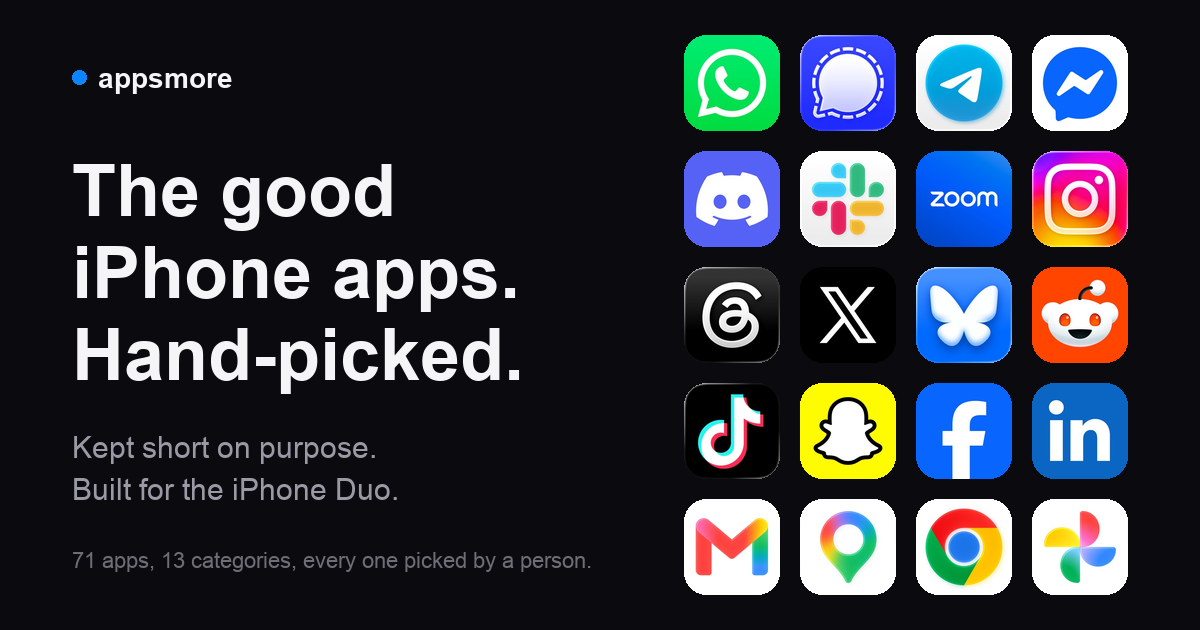
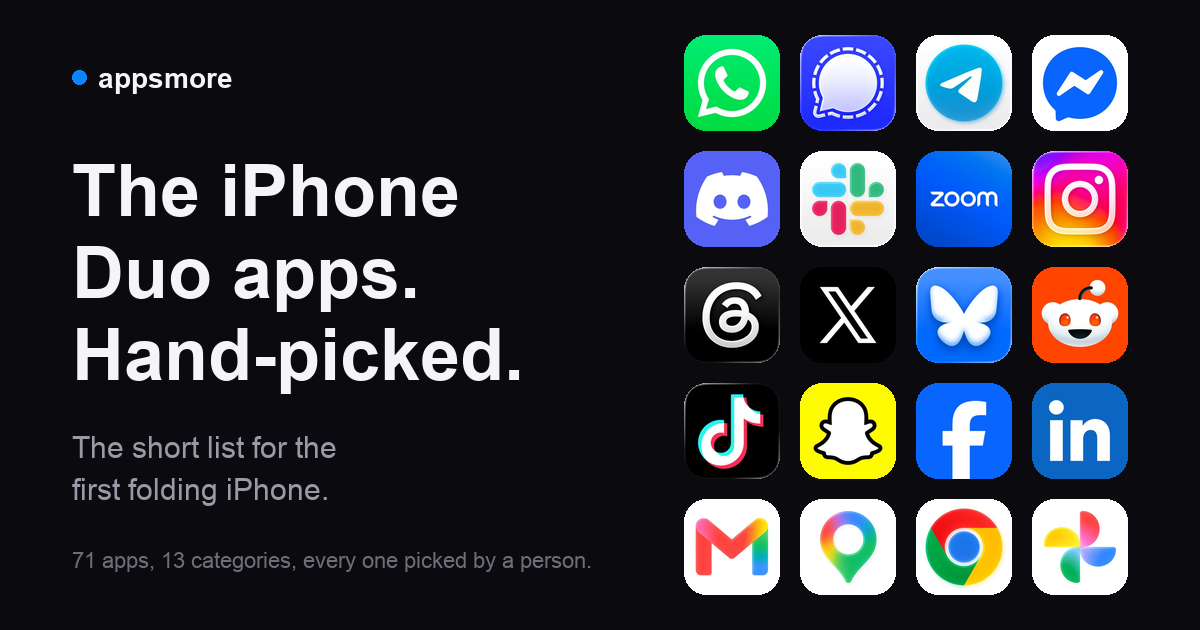
Duo-first: headline, lede, live Duo line (launch countdown then tested count), first pack 'Duo, day one', title/meta/OG/og.png; ?v=20

diff --git a/index.html b/index.html
@@ -3,28 +3,28 @@
 <head>
 <meta charset="utf-8">
 <meta name="viewport" content="width=device-width, initial-scale=1, viewport-fit=cover">
-<title>appsmore: hand-picked iPhone apps, built for the iPhone Duo</title>
-<meta name="description" content="The best iPhone apps, hand-picked and kept short: 67 apps in 13 categories, laid out for the iPhone Duo. Tap what you want, install in setup order, or send the list to a new iPhone as one link.">
+<title>appsmore: the iPhone Duo apps, hand-picked</title>
+<meta name="description" content="The apps worth putting on an iPhone Duo, hand-picked and kept short: 67 apps in 13 categories, laid out for both of the Duo's screens. Tap what you want, install in setup order, or send the list to the phone as one short link.">
 <link rel="canonical" href="https://appsmore.com/">
-<meta property="og:title" content="appsmore: hand-picked iPhone apps, built for the iPhone Duo">
-<meta property="og:description" content="A short, hand-picked list of iPhone apps worth installing. Tick what you want, install from the list, or send it to a phone as one link.">
+<meta property="og:title" content="appsmore: the iPhone Duo apps, hand-picked">
+<meta property="og:description" content="The short list for the first folding iPhone. Tap what you want, install in setup order, or send it to the Duo as one short link.">
 <meta property="og:url" content="https://appsmore.com/">
 <meta property="og:type" content="website">
 <meta property="og:image" content="https://appsmore.com/og.png">
 <meta property="og:image:width" content="1200">
 <meta property="og:image:height" content="630">
 <meta name="twitter:card" content="summary_large_image">
-<meta name="twitter:title" content="appsmore: hand-picked iPhone apps, built for the iPhone Duo">
+<meta name="twitter:title" content="appsmore: the iPhone Duo apps, hand-picked">
 <meta name="twitter:image" content="https://appsmore.com/og.png">
 <meta name="theme-color" content="#0b0b0f">
-<link rel="stylesheet" href="style.css?v=19">
+<link rel="stylesheet" href="style.css?v=20">
 <link rel="icon" href="/favicon.ico" sizes="48x48">
 <link rel="icon" href="/favicon.svg" type="image/svg+xml">
 <link rel="icon" href="/favicon-32.png" type="image/png" sizes="32x32">
 <link rel="apple-touch-icon" href="/apple-touch-icon.png">
 <link rel="manifest" href="/manifest.json">
 <script type="application/ld+json">
-{"@context":"https://schema.org","@type":"WebSite","name":"appsmore","url":"https://appsmore.com/","description":"A short, hand-picked list of iPhone apps worth installing, laid out for the iPhone Duo."}
+{"@context":"https://schema.org","@type":"WebSite","name":"appsmore","url":"https://appsmore.com/","description":"The apps worth putting on an iPhone Duo, hand-picked and kept short."}
 </script>
 <!-- ld:start -->
 <script type="application/ld+json">{"@context":"https://schema.org","@type":"ItemList","name":"appsmore: hand-picked iPhone apps","url":"https://appsmore.com/","numberOfItems":67,"itemListOrder":"https://schema.org/ItemListOrderAscending","itemListElement":[{"@type":"ListItem","position":1,"item":{"@type":"SoftwareApplication","name":"WhatsApp","url":"https://apps.apple.com/app/id310633997","operatingSystem":"iOS","applicationCategory":"Messaging","author":{"@type":"Organization","name":"WhatsApp Inc."},"image":"https://is1-ssl.mzstatic.com/image/thumb/Purple221/v4/bd/ce/d2/bdced210-6893-203a-2dc0-6858122e82a8/AppIcon-0-0-1x_U007epad-0-0-0-1-0-0-sRGB-0-85-220.png/256x256bb.jpg","description":"Where most of the world already is. If your family is on it, you are on it."}},{"@type":"ListItem","position":2,"item":{"@type":"SoftwareApplication","name":"Signal","url":"https://apps.apple.com/app/id874139669","operatingSystem":"iOS","applicationCategory":"Messaging","author":{"@type":"Organization","name":"Signal Messenger, LLC"},"image":"https://is1-ssl.mzstatic.com/image/thumb/Purple221/v4/10/a6/ab/10a6ab27-4ed5-d171-c219-30bb7aad2d54/AppIcon-0-0-1x_U007epad-0-0-0-1-0-0-sRGB-0-85-220.png/256x256bb.jpg","description":"The one to tell anyone to use. Private by default, run by a nonprofit."}},{"@type":"ListItem","position":3,"item":{"@type":"SoftwareApplication","name":"Telegram","url":"https://apps.apple.com/app/id686449807","operatingSystem":"iOS","applicationCategory":"Messaging","author":{"@type":"Organization","name":"Telegram FZ-LLC"},"image":"https://is1-ssl.mzstatic.com/image/thumb/Purple211/v4/01/b6/99/01b699a0-d264-d1c3-c798-50aedd0be3db/Telegram-0-0-1x_U007epad-0-1-0-sRGB-85-220.png/256x256bb.jpg","description":"Big groups, channels and bots. Not end-to-end encrypted by default, so treat it as public."}},{"@type":"ListItem","position":4,"item":{"@type":"SoftwareApplication","name":"Messenger","url":"https://apps.apple.com/app/id454638411","operatingSystem":"iOS","applicationCategory":"Messaging","author":{"@type":"Organization","name":"Meta Platforms, Inc."},"image":"https://is1-ssl.mzstatic.com/image/thumb/Purple211/v4/b4/fb/bf/b4fbbfa1-c997-b03b-2589-61f84f3ff6fc/AppIcon-0-0-1x_U007epad-0-1-0-sRGB-85-220.png/256x256bb.jpg","description":"Only because your Facebook friends message you here. Skip it if they don't."}},{"@type":"ListItem","position":5,"item":{"@type":"SoftwareApplication","name":"Discord","url":"https://apps.apple.com/app/id985746746","operatingSystem":"iOS","applicationCategory":"Messaging","author":{"@type":"Organization","name":"Discord Inc."},"image":"https://is1-ssl.mzstatic.com/image/thumb/Purple221/v4/3b/49/1d/3b491ddd-2b41-fd44-042f-f01b2899ecd2/AppIcon-0-0-1x_U007epad-0-1-0-85-220.png/256x256bb.jpg","description":"Where communities live now, from game servers to open source projects."}},{"@type":"ListItem","position":6,"item":{"@type":"SoftwareApplication","name":"Slack","url":"https://apps.apple.com/app/id618783545","operatingSystem":"iOS","applicationCategory":"Messaging","author":{"@type":"Organization","name":"SLACK TECHNOLOGIES L.L.C."},"image":"https://is1-ssl.mzstatic.com/image/thumb/Purple211/v4/fc/b4/7a/fcb47af8-bfc3-807c-3ad1-552f4e59e9df/slack_icon_prod-0-0-1x_U007epad-0-1-sRGB-85-220.png/256x256bb.jpg","description":"Work chat. You don't pick it, your job does."}},{"@type":"ListItem","position":7,"item":{"@type":"SoftwareApplication","name":"Zoom","url":"https://apps.apple.com/app/id546505307","operatingSystem":"iOS","applicationCategory":"Messaging","author":{"@type":"Organization","name":"Zoom Communications, Inc."},"image":"https://is1-ssl.mzstatic.com/image/thumb/Purple221/v4/37/4f/35/374f35c0-dace-8544-9ceb-1ff1adeb5c11/AppIcon-0-0-1x_U007epad-0-1-0-0-85-220.png/256x256bb.jpg","description":"The video call that always works, even on bad Wi-Fi."}},{"@type":"ListItem","position":8,"item":{"@type":"SoftwareApplication","name":"Instagram","url":"https://apps.apple.com/app/id389801252","operatingSystem":"iOS","applicationCategory":"Social","author":{"@type":"Organization","name":"Instagram, Inc."},"image":"https://is1-ssl.mzstatic.com/image/thumb/Purple211/v4/5a/18/99/5a189914-fa88-fab3-7ce2-506a624d2fbf/Prod-0-0-1x_U007epad-0-1-0-sRGB-85-220.png/256x256bb.jpg","description":"Photos, Reels, DMs. The one social app most people would keep."}},{"@type":"ListItem","position":9,"item":{"@type":"SoftwareApplication","name":"Threads","url":"https://apps.apple.com/app/id6446901002","operatingSystem":"iOS","applicationCategory":"Social","author":{"@type":"Organization","name":"Instagram, Inc."},"image":"https://is1-ssl.mzstatic.com/image/thumb/Purple211/v4/b1/0b/e0/b10be06e-917c-5dbd-aab0-a03cc5d648ad/Prod-0-0-1x_U007ephone-0-0-0-1-0-0-P3-85-220.png/256x256bb.jpg","description":"Instagram's text feed. Same login, quieter than X."}},{"@type":"ListItem","position":10,"item":{"@type":"SoftwareApplication","name":"X","url":"https://apps.apple.com/app/id333903271","operatingSystem":"iOS","applicationCategory":"Social","author":{"@type":"Organization","name":"X Corp."},"image":"https://is1-ssl.mzstatic.com/image/thumb/Purple211/v4/e5/6f/e7/e56fe7f9-dcab-14c7-56ae-e625a4794d56/ProductionAppIcon-0-0-1x_U007emarketing-0-8-0-0-0-85-220.png/256x256bb.jpg","description":"Still where news breaks first. Loud; curate your follows hard."}},{"@type":"ListItem","position":11,"item":{"@type":"SoftwareApplication","name":"Bluesky","url":"https://apps.apple.com/app/id6444370199","operatingSystem":"iOS","applicationCategory":"Social","author":{"@type":"Organization","name":"Bluesky PBLLC"},"image":"https://is1-ssl.mzstatic.com/image/thumb/Purple211/v4/f7/eb/09/f7eb09b2-d16f-95bc-6aa0-143738d194af/ios_icon_default-0-0-1x_U007ephone-0-1-sRGB-85-220.png/256x256bb.jpg","description":"The calm, open alternative to X. Custom feeds are the point."}},{"@type":"ListItem","position":12,"item":{"@type":"SoftwareApplication","name":"Reddit","url":"https://apps.apple.com/app/id1064216828","operatingSystem":"iOS","applicationCategory":"Social","author":{"@type":"Organization","name":"REDDIT, INC."},"image":"https://is1-ssl.mzstatic.com/image/thumb/Purple221/v4/62/9d/85/629d852f-9f8f-d543-addd-b1a0a856286d/AppIcon-0-0-1x_U007epad-0-1-0-85-220.png/256x256bb.jpg","description":"The best search results on the internet are Reddit threads. The app is finally decent."}},{"@type":"ListItem","position":13,"item":{"@type":"SoftwareApplication","name":"TikTok","url":"https://apps.apple.com/app/id835599320","operatingSystem":"iOS","applicationCategory":"Social","author":{"@type":"Organization","name":"TIKTOK PTE. LTD."},"image":"https://is1-ssl.mzstatic.com/image/thumb/Purple211/v4/fe/27/16/fe27164a-3b4e-ab54-b5e0-4e8fa4e1556a/TikTok_AppIcon26-0-0-1x_U007epad-0-1-0-85-220.png/256x256bb.jpg","description":"The best recommendation engine on any phone. Set a timer."}},{"@type":"ListItem","position":14,"item":{"@type":"SoftwareApplication","name":"Snapchat","url":"https://apps.apple.com/app/id447188370","operatingSystem":"iOS","applicationCategory":"Social","author":{"@type":"Organization","name":"Snap, Inc."},"image":"https://is1-ssl.mzstatic.com/image/thumb/Purple221/v4/00/59/bb/0059bb41-25d1-e054-dd32-979ff089b7cb/AppIcon-0-0-1x_U007epad-0-1-0-85-220.png/256x256bb.jpg","description":"If your friends are under 25, this is where they are."}},{"@type":"ListItem","position":15,"item":{"@type":"SoftwareApplication","name":"Facebook","url":"https://apps.apple.com/app/id284882215","operatingSystem":"iOS","applicationCategory":"Social","author":{"@type":"Organization","name":"Meta Platforms, Inc."},"image":"https://is1-ssl.mzstatic.com/image/thumb/Purple221/v4/5e/1d/be/5e1dbe24-886f-0e03-0874-2b7c2fdfd594/Icon-Production-0-0-1x_U007epad-0-1-0-85-220.png/256x256bb.jpg","description":"For groups, Marketplace and relatives. Turn off every notification."}},{"@type":"ListItem","position":16,"item":{"@type":"SoftwareApplication","name":"LinkedIn","url":"https://apps.apple.com/app/id288429040","operatingSystem":"iOS","applicationCategory":"Social","author":{"@type":"Organization","name":"LinkedIn Corporation"},"image":"https://is1-ssl.mzstatic.com/image/thumb/Purple221/v4/3d/24/4b/3d244b4a-52ad-5f92-0f79-829c869b9dcc/AppIcon-0-0-1x_U007emarketing-0-8-0-85-220.png/256x256bb.jpg","description":"Job changes and recruiters. Check it weekly, not daily."}},{"@type":"ListItem","position":17,"item":{"@type":"SoftwareApplication","name":"Gmail","url":"https://apps.apple.com/app/id422689480","operatingSystem":"iOS","applicationCategory":"Google","author":{"@type":"Organization","name":"Google LLC"},"image":"https://is1-ssl.mzstatic.com/image/thumb/Purple221/v4/a0/f0/57/a0f057ec-e69b-27d7-3ada-ad34c50dbfb5/gmail_2026_ios-0-0-1x_U007epad-0-0-0-1-0-0-sRGB-0-0-85-220.png/256x256bb.jpg","description":"Better search and swipes than Apple Mail if your mail is Gmail."}},{"@type":"ListItem","position":18,"item":{"@type":"SoftwareApplication","name":"Google Maps","url":"https://apps.apple.com/app/id585027354","operatingSystem":"iOS","applicationCategory":"Google","author":{"@type":"Organization","name":"Google LLC"},"image":"https://is1-ssl.mzstatic.com/image/thumb/Purple211/v4/d1/1e/12/d11e1245-3286-ffa3-da4e-f0d102520f41/maps_2025-0-0-1x_U007epad-0-0-0-1-0-0-sRGB-0-0-85-220.png/256x256bb.jpg","description":"Still the best map data, transit and reviews. Apple Maps is close now."}},{"@type":"ListItem","position":19,"item":{"@type":"SoftwareApplication","name":"Chrome","url":"https://apps.apple.com/app/id535886823","operatingSystem":"iOS","applicationCategory":"Google","author":{"@type":"Organization","name":"Google LLC"},"image":"https://is1-ssl.mzstatic.com/image/thumb/Purple211/v4/40/07/e1/4007e100-feee-a7d5-c4f8-2d5a0395530b/AppIcon-0-0-1x_U007epad-0-0-0-1-0-0-sRGB-85-220.png/256x256bb.jpg","description":"Only if your passwords and tabs already live in Chrome on the desktop."}},{"@type":"ListItem","position":20,"item":{"@type":"SoftwareApplication","name":"Google Photos","url":"https://apps.apple.com/app/id962194608","operatingSystem":"iOS","applicationCategory":"Google","author":{"@type":"Organization","name":"Google LLC"},"image":"https://is1-ssl.mzstatic.com/image/thumb/Purple211/v4/51/14/38/51143806-7e44-3988-777b-1b795ce39ba5/Photos-0-0-1x_U007epad-0-0-0-1-0-0-sRGB-0-0-85-220.png/256x256bb.jpg","description":"The best photo search there is, and a second backup next to iCloud."}},{"@type":"ListItem","position":21,"item":{"@type":"SoftwareApplication","name":"Google Drive","url":"https://apps.apple.com/app/id507874739","operatingSystem":"iOS","applicationCategory":"Google","author":{"@type":"Organization","name":"Google LLC"},"image":"https://is1-ssl.mzstatic.com/image/thumb/Purple211/v4/77/af/b3/77afb3aa-8b50-74aa-fc5c-225f1d8fd1c9/drive_2026_ios-0-0-1x_U007epad-0-0-0-1-0-0-sRGB-0-0-85-220.png/256x256bb.jpg","description":"Docs, Sheets and shared folders on the phone."}},{"@type":"ListItem","position":22,"item":{"@type":"SoftwareApplication","name":"Google Calendar","url":"https://apps.apple.com/app/id909319292","operatingSystem":"iOS","applicationCategory":"Google","author":{"@type":"Organization","name":"Google LLC"},"image":"https://is1-ssl.mzstatic.com/image/thumb/Purple221/v4/31/9b/bc/319bbcb5-0e89-34a3-a791-02a97be25757/calendar_2026_ios-0-0-1x_U007epad-0-0-0-1-0-0-sRGB-0-0-85-220.png/256x256bb.jpg","description":"If your calendar is Google, this beats Apple's for shared calendars."}},{"@type":"ListItem","position":23,"item":{"@type":"SoftwareApplication","name":"YouTube","url":"https://apps.apple.com/app/id544007664","operatingSystem":"iOS","applicationCategory":"Google","author":{"@type":"Organization","name":"Google LLC"},"image":"https://is1-ssl.mzstatic.com/image/thumb/Purple211/v4/c3/ef/fa/c3effa7a-8bcc-0bee-be55-53acb69715b2/logo_youtube_2024_q4_color-0-0-1x_U007emarketing-0-0-0-7-0-0-0-85-220.png/256x256bb.jpg","description":"The other half of the internet."}},{"@type":"ListItem","position":24,"item":{"@type":"SoftwareApplication","name":"Google Translate","url":"https://apps.apple.com/app/id414706506","operatingSystem":"iOS","applicationCategory":"Google","author":{"@type":"Organization","name":"Google LLC"},"image":"https://is1-ssl.mzstatic.com/image/thumb/Purple221/v4/8d/b5/36/8db5362b-81a2-8f29-e754-3555d08256cd/logo_translate_color-0-0-1x_U007epad-0-0-0-1-0-0-0-85-220.png/256x256bb.jpg","description":"Point the camera at a menu. Download languages before you fly."}},{"@type":"ListItem","position":25,"item":{"@type":"SoftwareApplication","name":"ChatGPT","url":"https://apps.apple.com/app/id6448311069","operatingSystem":"iOS","applicationCategory":"AI","author":{"@type":"Organization","name":"OpenAI OpCo, LLC"},"image":"https://is1-ssl.mzstatic.com/image/thumb/Purple221/v4/1e/d2/2c/1ed22c36-78c3-54c9-7b35-b6837a28c0e3/AppIcon-0-0-1x_U007epad-0-0-0-1-0-P3-85-220.png/256x256bb.jpg","description":"The one most people mean when they say AI. Voice mode is the reason to have the app."}},{"@type":"ListItem","position":26,"item":{"@type":"SoftwareApplication","name":"Claude","url":"https://apps.apple.com/app/id6473753684","operatingSystem":"iOS","applicationCategory":"AI","author":{"@type":"Organization","name":"Anthropic PBC"},"image":"https://is1-ssl.mzstatic.com/image/thumb/Purple211/v4/03/de/d8/03ded865-effd-9bbc-61b2-a94e91434a65/AppIcon-0-0-1x_U007epad-0-1-85-220.png/256x256bb.jpg","description":"Strong on long documents and careful writing. Projects keep context between chats."}},{"@type":"ListItem","position":27,"item":{"@type":"SoftwareApplication","name":"Gemini","url":"https://apps.apple.com/app/id6477489729","operatingSystem":"iOS","applicationCategory":"AI","author":{"@type":"Organization","name":"Google LLC"},"image":"https://is1-ssl.mzstatic.com/image/thumb/Purple221/v4/98/8f/b4/988fb4a7-5e80-b5ca-fc39-a3c44e9f2bfa/AppIcon-0-0-1x_U007epad-0-0-0-1-0-0-sRGB-0-0-85-220.png/256x256bb.jpg","description":"Tied into Gmail, Calendar and Maps. Best if you live in Google."}},{"@type":"ListItem","position":28,"item":{"@type":"SoftwareApplication","name":"Outlook","url":"https://apps.apple.com/app/id951937596","operatingSystem":"iOS","applicationCategory":"Work","author":{"@type":"Organization","name":"Microsoft Corporation"},"image":"https://is1-ssl.mzstatic.com/image/thumb/Purple211/v4/89/ed/b9/89edb95b-48b4-d6f0-7e2f-09545c933aca/AppIcon-outlook.prod-0-0-1x_U007epad-0-1-0-0-0-85-220.png/256x256bb.jpg","description":"The best mail app for Microsoft 365 accounts, and a good one for Gmail too."}},{"@type":"ListItem","position":29,"item":{"@type":"SoftwareApplication","name":"Word","url":"https://apps.apple.com/app/id586447913","operatingSystem":"iOS","applicationCategory":"Work","author":{"@type":"Organization","name":"Microsoft Corporation"},"image":"https://is1-ssl.mzstatic.com/image/thumb/Purple211/v4/12/92/46/129246f9-263f-e364-f33f-b201095540b4/AppIcon-0-0-1x_U007epad-0-1-0-0-sRGB-0-0-0-85-220.png/256x256bb.jpg","description":"Opens every .docx correctly. That is the job."}},{"@type":"ListItem","position":30,"item":{"@type":"SoftwareApplication","name":"Excel","url":"https://apps.apple.com/app/id586683407","operatingSystem":"iOS","applicationCategory":"Work","author":{"@type":"Organization","name":"Microsoft Corporation"},"image":"https://is1-ssl.mzstatic.com/image/thumb/Purple221/v4/35/d9/d3/35d9d370-5d64-8913-1d82-068228313dca/AppIcon-0-0-1x_U007epad-0-1-0-0-sRGB-0-0-0-85-220.png/256x256bb.jpg","description":"Real spreadsheets on a phone. Fine for reading, brave for editing."}},{"@type":"ListItem","position":31,"item":{"@type":"SoftwareApplication","name":"Dropbox","url":"https://apps.apple.com/app/id327630330","operatingSystem":"iOS","applicationCategory":"Work","author":{"@type":"Organization","name":"Dropbox, Inc."},"image":"https://is1-ssl.mzstatic.com/image/thumb/Purple221/v4/88/34/b1/8834b1df-c7df-c2db-fd3e-cd6754a64417/AppIcon-0-0-1x_U007emarketing-0-8-0-85-220.png/256x256bb.jpg","description":"Still the most reliable sync. Camera upload alone is worth it."}},{"@type":"ListItem","position":32,"item":{"@type":"SoftwareApplication","name":"Notion","url":"https://apps.apple.com/app/id1232780281","operatingSystem":"iOS","applicationCategory":"Work","author":{"@type":"Organization","name":"Notion Labs, Incorporated"},"image":"https://is1-ssl.mzstatic.com/image/thumb/Purple221/v4/36/c1/9a/36c19aa6-0c7d-e9aa-a052-ed1e9ea8544b/AppIconProd-0-0-1x_U007epad-0-0-0-1-0-0-P3-85-220.png/256x256bb.jpg","description":"Notes, docs and databases in one place. Slow to start, hard to leave."}},{"@type":"ListItem","position":33,"item":{"@type":"SoftwareApplication","name":"Todoist","url":"https://apps.apple.com/app/id572688855","operatingSystem":"iOS","applicationCategory":"Work","author":{"@type":"Organization","name":"Todoist Inc."},"image":"https://is1-ssl.mzstatic.com/image/thumb/Purple221/v4/d8/80/a1/d880a12d-431a-3770-f7f7-c06e3d405ea9/AppIcon-0-0-1x_U007epad-0-1-sRGB-85-220.png/256x256bb.jpg","description":"The to-do app that gets out of the way. Type dates in plain English."}},{"@type":"ListItem","position":34,"item":{"@type":"SoftwareApplication","name":"1Password","url":"https://apps.apple.com/app/id1511601750","operatingSystem":"iOS","applicationCategory":"Passwords & 2FA","author":{"@type":"Organization","name":"AgileBits Inc."},"image":"https://is1-ssl.mzstatic.com/image/thumb/Purple221/v4/04/c0/b9/04c0b91f-1ee8-1b18-f9cc-ca7a834ee038/AppIcon-0-0-1x_U007epad-0-8-0-P3-85-220.png/256x256bb.jpg","description":"Install this first. Everything after it is a login."}},{"@type":"ListItem","position":35,"item":{"@type":"SoftwareApplication","name":"Bitwarden","url":"https://apps.apple.com/app/id1137397744","operatingSystem":"iOS","applicationCategory":"Passwords & 2FA","author":{"@type":"Organization","name":"Bitwarden Inc"},"image":"https://is1-ssl.mzstatic.com/image/thumb/Purple221/v4/8a/d3/41/8ad3418c-4ec3-d101-748b-ebd4895572ab/AppIcon-0-0-1x_U007epad-0-1-sRGB-85-220.png/256x256bb.jpg","description":"Free, open source, and good. The other right answer."}},{"@type":"ListItem","position":36,"item":{"@type":"SoftwareApplication","name":"Google Authenticator","url":"https://apps.apple.com/app/id388497605","operatingSystem":"iOS","applicationCategory":"Passwords & 2FA","author":{"@type":"Organization","name":"Google LLC"},"image":"https://is1-ssl.mzstatic.com/image/thumb/Purple221/v4/44/16/6c/44166c7d-20fa-2e9b-66ea-73e5d45b1f5f/app_icon-0-0-1x_U007epad-0-0-0-1-0-0-0-85-220.png/256x256bb.jpg","description":"Codes for Google and anything that insists on it. Turn on cloud sync."}},{"@type":"ListItem","position":37,"item":{"@type":"SoftwareApplication","name":"MS Authenticator","url":"https://apps.apple.com/app/id983156458","operatingSystem":"iOS","applicationCategory":"Passwords & 2FA","author":{"@type":"Organization","name":"Microsoft Corporation"},"image":"https://is1-ssl.mzstatic.com/image/thumb/Purple211/v4/80/26/ad/8026adff-d8e1-15e4-3366-be76b24250b9/AppIcon-0-1x_U007emarketing-0-11-0-sRGB-85-220-0.png/256x256bb.jpg","description":"Required for most work accounts. Also does passwordless Microsoft sign-in."}},{"@type":"ListItem","position":38,"item":{"@type":"SoftwareApplication","name":"Spotify","url":"https://apps.apple.com/app/id324684580","operatingSystem":"iOS","applicationCategory":"Watch & listen","author":{"@type":"Organization","name":"Spotify"},"image":"https://is1-ssl.mzstatic.com/image/thumb/Purple211/v4/6d/e0/d6/6de0d66e-e40d-1cb9-a6cc-031808eeab93/AppIcon-0-0-1x_U007epad-0-1-0-0-sRGB-85-220.png/256x256bb.jpg","description":"Best playlists and podcasts in one app. Apple Music if you are all-Apple."}},{"@type":"ListItem","position":39,"item":{"@type":"SoftwareApplication","name":"Netflix","url":"https://apps.apple.com/app/id363590051","operatingSystem":"iOS","applicationCategory":"Watch & listen","author":{"@type":"Organization","name":"Netflix, Inc."},"image":"https://is1-ssl.mzstatic.com/image/thumb/Purple211/v4/0f/c6/b7/0fc6b7ab-2d8e-b79c-012d-db6701b071d7/AppIcon-0-0-1x_U007epad-0-1-0-sRGB-0-85-220.png/256x256bb.jpg","description":"Download on Wi-Fi before the flight."}},{"@type":"ListItem","position":40,"item":{"@type":"SoftwareApplication","name":"Prime Video","url":"https://apps.apple.com/app/id545519333","operatingSystem":"iOS","applicationCategory":"Watch & listen","author":{"@type":"Organization","name":"AMZN Mobile LLC"},"image":"https://is1-ssl.mzstatic.com/image/thumb/Purple221/v4/1d/68/61/1d6861d6-09b2-03db-4233-f72ed4640a4c/AppIcon-0-0-1x_U007epad-0-1-0-0-85-220.png/256x256bb.jpg","description":"You are probably already paying for it."}},{"@type":"ListItem","position":41,"item":{"@type":"SoftwareApplication","name":"Disney+","url":"https://apps.apple.com/app/id1446075923","operatingSystem":"iOS","applicationCategory":"Watch & listen","author":{"@type":"Organization","name":"Disney Electronic Content, Inc."},"image":"https://is1-ssl.mzstatic.com/image/thumb/Purple221/v4/cd/76/88/cd76885e-eb8a-08e7-3e3e-32f342e88839/AppIcon-0-0-1x_U007emarketing-0-8-0-0-0-85-220.png/256x256bb.jpg","description":"Disney, Pixar, Marvel, Star Wars, and Hulu's catalog if you have the bundle."}},{"@type":"ListItem","position":42,"item":{"@type":"SoftwareApplication","name":"HBO Max","url":"https://apps.apple.com/app/id1666653815","operatingSystem":"iOS","applicationCategory":"Watch & listen","author":{"@type":"Organization","name":"WarnerMedia Global Digital Services, LLC"},"image":"https://is1-ssl.mzstatic.com/image/thumb/Purple211/v4/da/e1/d0/dae1d0d6-8466-4546-ffbc-2a90b59e99bb/AppIcon-0-0-1x_U007epad-0-1-sRGB-85-220.png/256x256bb.jpg","description":"The best TV back catalog. It was Max for a while; it is HBO Max again."}},{"@type":"ListItem","position":43,"item":{"@type":"SoftwareApplication","name":"Twitch","url":"https://apps.apple.com/app/id460177396","operatingSystem":"iOS","applicationCategory":"Watch & listen","author":{"@type":"Organization","name":"Twitch Interactive, Inc."},"image":"https://is1-ssl.mzstatic.com/image/thumb/Purple221/v4/7e/53/76/7e5376ee-5f28-fe9d-290c-b23c47a8d656/TwitchAppIcon-0-0-1x_U007epad-0-1-0-sRGB-0-0-0-85-220.png/256x256bb.jpg","description":"Live streams, and the chat that goes with them."}},{"@type":"ListItem","position":44,"item":{"@type":"SoftwareApplication","name":"Kindle","url":"https://apps.apple.com/app/id302584613","operatingSystem":"iOS","applicationCategory":"Read & learn","author":{"@type":"Organization","name":"AMZN Mobile LLC"},"image":"https://is1-ssl.mzstatic.com/image/thumb/Purple211/v4/11/1b/af/111baf9c-3206-0c87-f189-cdc0ded05ba9/AppIcon-0-0-1x_U007emarketing-0-7-0-sRGB-0-0-85-220.png/256x256bb.jpg","description":"Every book you own, synced to the page. Reads well on a big screen."}},{"@type":"ListItem","position":45,"item":{"@type":"SoftwareApplication","name":"Audible","url":"https://apps.apple.com/app/id379693831","operatingSystem":"iOS","applicationCategory":"Read & learn","author":{"@type":"Organization","name":"Audible, Inc."},"image":"https://is1-ssl.mzstatic.com/image/thumb/Purple211/v4/f5/ef/4b/f5ef4b84-b4a7-1e7a-b795-935b00d11771/AppIcon-0-0-1x_U007emarketing-0-0-0-8-0-0-85-220.png/256x256bb.jpg","description":"Audiobooks. Buy credits, never full price."}},{"@type":"ListItem","position":46,"item":{"@type":"SoftwareApplication","name":"NYTimes","url":"https://apps.apple.com/app/id284862083","operatingSystem":"iOS","applicationCategory":"Read & learn","author":{"@type":"Organization","name":"The New York Times Company"},"image":"https://is1-ssl.mzstatic.com/image/thumb/Purple221/v4/c9/0f/b3/c90fb3cc-77f1-bd03-44b7-24bbbe51aa8c/Release-0-0-1x_U007epad-0-0-0-1-0-0-P3-85-220.png/256x256bb.jpg","description":"News, plus the games, which is what most subscribers actually open."}},{"@type":"ListItem","position":47,"item":{"@type":"SoftwareApplication","name":"Duolingo","url":"https://apps.apple.com/app/id570060128","operatingSystem":"iOS","applicationCategory":"Read & learn","author":{"@type":"Organization","name":"Duolingo, Inc"},"image":"https://is1-ssl.mzstatic.com/image/thumb/Purple211/v4/1c/19/70/1c19704d-b48e-5c5d-78d5-d1d5ed601474/AppIcon-0-0-1x_U007epad-0-1-85-220.png/256x256bb.jpg","description":"Five minutes a day actually adds up. The owl is not kidding."}},{"@type":"ListItem","position":48,"item":{"@type":"SoftwareApplication","name":"Uber","url":"https://apps.apple.com/app/id368677368","operatingSystem":"iOS","applicationCategory":"Getting around","author":{"@type":"Organization","name":"Uber Technologies, Inc."},"image":"https://is1-ssl.mzstatic.com/image/thumb/Purple221/v4/8f/15/52/8f15523c-afce-94bc-2d05-c1b8eb41f577/AppIcon-0-0-1x_U007emarketing-0-8-0-0-85-220.png/256x256bb.jpg","description":"Rides in most cities worldwide, one account."}},{"@type":"ListItem","position":49,"item":{"@type":"SoftwareApplication","name":"Lyft","url":"https://apps.apple.com/app/id529379082","operatingSystem":"iOS","applicationCategory":"Getting around","author":{"@type":"Organization","name":"Lyft, Inc."},"image":"https://is1-ssl.mzstatic.com/image/thumb/Purple211/v4/76/c6/fc/76c6fc2c-dad8-e66f-1483-9c000ebe977e/PassengerRelease-0-0-1x_U007ephone-0-1-sRGB-85-220.png/256x256bb.jpg","description":"Check both. It is often cheaper."}},{"@type":"ListItem","position":50,"item":{"@type":"SoftwareApplication","name":"Waze","url":"https://apps.apple.com/app/id323229106","operatingSystem":"iOS","applicationCategory":"Getting around","author":{"@type":"Organization","name":"waze"},"image":"https://is1-ssl.mzstatic.com/image/thumb/Purple221/v4/1e/3a/06/1e3a0657-eb8f-1762-cb90-69eb70f32086/AppIcon-0-0-1x_U007epad-0-1-0-85-220.png/256x256bb.jpg","description":"Best for driving: police, traffic and closures reported by other drivers."}},{"@type":"ListItem","position":51,"item":{"@type":"SoftwareApplication","name":"Airbnb","url":"https://apps.apple.com/app/id401626263","operatingSystem":"iOS","applicationCategory":"Getting around","author":{"@type":"Organization","name":"Airbnb, Inc."},"image":"https://is1-ssl.mzstatic.com/image/thumb/Purple211/v4/b7/38/74/b73874fe-ed0f-4d19-b2fd-b2b6ba2be49a/AppIcon-0-0-1x_U007epad-0-1-0-0-0-85-220.png/256x256bb.jpg","description":"Places to stay. Check-in details and host messages live in the app."}},{"@type":"ListItem","position":52,"item":{"@type":"SoftwareApplication","name":"DoorDash","url":"https://apps.apple.com/app/id719972451","operatingSystem":"iOS","applicationCategory":"Food & groceries","author":{"@type":"Organization","name":"DoorDash, Inc."},"image":"https://is1-ssl.mzstatic.com/image/thumb/Purple211/v4/b2/7e/a7/b27ea735-b92f-a541-63ac-c895957d6ab9/AppIcon-0-0-1x_U007ephone-0-1-sRGB-85-220.png/256x256bb.jpg","description":"The widest restaurant coverage in the US."}},{"@type":"ListItem","position":53,"item":{"@type":"SoftwareApplication","name":"Uber Eats","url":"https://apps.apple.com/app/id1058959277","operatingSystem":"iOS","applicationCategory":"Food & groceries","author":{"@type":"Organization","name":"Uber Technologies, Inc."},"image":"https://is1-ssl.mzstatic.com/image/thumb/Purple211/v4/4e/bd/50/4ebd506f-49fa-63f0-5394-2b202bdbb7ae/AppIcon-0-0-1x_U007emarketing-0-8-0-0-sRGB-85-220.png/256x256bb.jpg","description":"Same idea, different restaurants. Compare the fees."}},{"@type":"ListItem","position":54,"item":{"@type":"SoftwareApplication","name":"Instacart","url":"https://apps.apple.com/app/id545599256","operatingSystem":"iOS","applicationCategory":"Food & groceries","author":{"@type":"Organization","name":"Maplebear Inc"},"image":"https://is1-ssl.mzstatic.com/image/thumb/Purple211/v4/c3/d6/0b/c3d60bca-809a-1b9a-05f5-00bdb166cb11/AppIcon-0-0-1x_U007emarketing-0-8-0-0-P3-85-220.png/256x256bb.jpg","description":"Groceries delivered from the stores you already shop at."}},{"@type":"ListItem","position":55,"item":{"@type":"SoftwareApplication","name":"Venmo","url":"https://apps.apple.com/app/id351727428","operatingSystem":"iOS","applicationCategory":"Money & shopping","author":{"@type":"Organization","name":"The Delancey Corporation, LLC"},"image":"https://is1-ssl.mzstatic.com/image/thumb/Purple211/v4/3d/8e/fd/3d8efd53-c81c-81e2-c252-066c29b6f74a/AppIcon-0-0-1x_U007emarketing-0-8-0-0-sRGB-85-220.png/256x256bb.jpg","description":"How friends in the US pay each other back."}},{"@type":"ListItem","position":56,"item":{"@type":"SoftwareApplication","name":"PayPal","url":"https://apps.apple.com/app/id283646709","operatingSystem":"iOS","applicationCategory":"Money & shopping","author":{"@type":"Organization","name":"PayPal, Inc."},"image":"https://is1-ssl.mzstatic.com/image/thumb/Purple211/v4/89/50/ea/8950ea00-5bf9-6085-bfb6-cb86de2c1959/AppIcon-0-0-1x_U007ephone-0-1-0-85-220.png/256x256bb.jpg","description":"Paying strangers and sites safely. Buyer protection is the point."}},{"@type":"ListItem","position":57,"item":{"@type":"SoftwareApplication","name":"Cash App","url":"https://apps.apple.com/app/id711923939","operatingSystem":"iOS","applicationCategory":"Money & shopping","author":{"@type":"Organization","name":"Block, Inc."},"image":"https://is1-ssl.mzstatic.com/image/thumb/Purple221/v4/9f/73/04/9f730404-58f2-801f-38db-6f5328a1ee8c/AppIcon-0-0-1x_U007ephone-0-1-0-sRGB-85-220.png/256x256bb.jpg","description":"Peer payments plus a debit card."}},{"@type":"ListItem","position":58,"item":{"@type":"SoftwareApplication","name":"Amazon","url":"https://apps.apple.com/app/id297606951","operatingSystem":"iOS","applicationCategory":"Money & shopping","author":{"@type":"Organization","name":"AMZN Mobile LLC"},"image":"https://is1-ssl.mzstatic.com/image/thumb/Purple211/v4/5d/79/b8/5d79b865-9ad4-f905-696c-0e07bac67986/AppIcon-0-0-1x_U007epad-0-1-0-sRGB-0-85-220.png/256x256bb.jpg","description":"You know what this is. Turn off notifications."}},{"@type":"ListItem","position":59,"item":{"@type":"SoftwareApplication","name":"eBay","url":"https://apps.apple.com/app/id282614216","operatingSystem":"iOS","applicationCategory":"Money & shopping","author":{"@type":"Organization","name":"eBay Inc."},"image":"https://is1-ssl.mzstatic.com/image/thumb/Purple221/v4/fa/f2/fe/faf2fed8-8a52-3540-0b16-9db86f217f80/AppIcon-0-0-1x_U007epad-0-1-0-85-220.png/256x256bb.jpg","description":"Used, rare and discontinued things, with buyer protection."}},{"@type":"ListItem","position":60,"item":{"@type":"SoftwareApplication","name":"Etsy","url":"https://apps.apple.com/app/id477128284","operatingSystem":"iOS","applicationCategory":"Money & shopping","author":{"@type":"Organization","name":"Etsy, Inc."},"image":"https://is1-ssl.mzstatic.com/image/thumb/Purple211/v4/17/ea/cd/17eacd67-4199-3564-edcc-0d8164e610cc/BOEAppIcon-0-0-1x_U007epad-0-1-0-0-0-0-GLES2_U002c0-85-220.png/256x256bb.jpg","description":"Handmade and vintage from real people."}},{"@type":"ListItem","position":61,"item":{"@type":"SoftwareApplication","name":"Strava","url":"https://apps.apple.com/app/id426826309","operatingSystem":"iOS","applicationCategory":"Health","author":{"@type":"Organization","name":"Strava Inc."},"image":"https://is1-ssl.mzstatic.com/image/thumb/Purple211/v4/b6/02/e5/b602e5d5-d2bc-25fb-1b4c-aba9e55ae0e4/AppIcon-Primary-0-0-1x_U007ephone-0-1-0-0-sRGB-85-220.png/256x256bb.jpg","description":"Runs and rides, with the friends who make you keep going."}},{"@type":"ListItem","position":62,"item":{"@type":"SoftwareApplication","name":"MyFitnessPal","url":"https://apps.apple.com/app/id341232718","operatingSystem":"iOS","applicationCategory":"Health","author":{"@type":"Organization","name":"MyFitnessPal, Inc."},"image":"https://is1-ssl.mzstatic.com/image/thumb/Purple221/v4/3b/97/aa/3b97aa91-aa9d-d66d-e531-8cdef051e137/AppIcon-0-0-1x_U007emarketing-0-8-0-85-220.png/256x256bb.jpg","description":"The biggest food database. The barcode scanner does the work."}},{"@type":"ListItem","position":63,"item":{"@type":"SoftwareApplication","name":"Headspace","url":"https://apps.apple.com/app/id493145008","operatingSystem":"iOS","applicationCategory":"Health","author":{"@type":"Organization","name":"Headspace Inc."},"image":"https://is1-ssl.mzstatic.com/image/thumb/Purple221/v4/19/6d/34/196d34ee-6411-0f15-e4b6-d62afeb9594a/AppIcon-0-0-1x_U007epad-0-1-85-220.png/256x256bb.jpg","description":"Guided meditation that teaches, not just plays."}},{"@type":"ListItem","position":64,"item":{"@type":"SoftwareApplication","name":"Calm","url":"https://apps.apple.com/app/id571800810","operatingSystem":"iOS","applicationCategory":"Health","author":{"@type":"Organization","name":"Calm.com, Inc."},"image":"https://is1-ssl.mzstatic.com/image/thumb/Purple211/v4/62/6f/5c/626f5cc3-2dc7-b4b2-140e-d37219fee5f9/AppIcon-0-0-1x_U007emarketing-0-11-0-85-220.png/256x256bb.jpg","description":"Sleep stories and background sound. Pick this or Headspace, not both."}},{"@type":"ListItem","position":65,"item":{"@type":"SoftwareApplication","name":"Firefox","url":"https://apps.apple.com/app/id989804926","operatingSystem":"iOS","applicationCategory":"Browsers","author":{"@type":"Organization","name":"Mozilla Corporation"},"image":"https://is1-ssl.mzstatic.com/image/thumb/Purple211/v4/bd/ba/b7/bdbab78d-0dfe-af17-3b79-68dfb22d549b/AppIcon-0-0-1x_U007epad-0-1-0-sRGB-85-220.png/256x256bb.jpg","description":"Syncs with desktop Firefox. Strong tracking protection."}},{"@type":"ListItem","position":66,"item":{"@type":"SoftwareApplication","name":"Brave","url":"https://apps.apple.com/app/id1052879175","operatingSystem":"iOS","applicationCategory":"Browsers","author":{"@type":"Organization","name":"Brave Software, Inc."},"image":"https://is1-ssl.mzstatic.com/image/thumb/Purple211/v4/a0/01/d1/a001d104-a525-41a3-3ef6-12e14dd78a3c/AppIcon-0-0-1x_U007epad-0-1-0-sRGB-85-220.png/256x256bb.jpg","description":"Blocks ads and trackers by default. Fast."}},{"@type":"ListItem","position":67,"item":{"@type":"SoftwareApplication","name":"DuckDuckGo","url":"https://apps.apple.com/app/id663592361","operatingSystem":"iOS","applicationCategory":"Browsers","author":{"@type":"Organization","name":"Duck Duck Go, Inc."},"image":"https://is1-ssl.mzstatic.com/image/thumb/Purple211/v4/e5/24/64/e524649c-8864-66ec-6098-f0a23e7ea247/AppIcon-0-0-1x_U007epad-0-0-0-1-0-0-sRGB-0-85-220.png/256x256bb.jpg","description":"Private search and a browser that forgets. The fire button is satisfying."}}]}</script><!-- ld:end -->
@@ -45,9 +45,10 @@
 <main class="wrap">
   <div class="panes">
     <div>
-      <h1 class="title">The good iPhone apps. Hand-picked.</h1>
-      <p class="lede">Kept short on purpose. Built for the iPhone Duo. Tap the ones you want, then install from your list, or send it to a phone as one link.</p>
+      <h1 class="title">The iPhone Duo apps. Hand-picked.</h1>
+      <p class="lede">The short list for the first folding iPhone. Tap the ones you want, install them in setup order, or send the list to the Duo as one short link.</p>
       <p class="meta" id="catalog-note"></p>
+      <p class="meta duo" id="duo-note"></p>
       <div class="packs" id="packs" hidden></div>
       <section class="catalog" id="grid" aria-label="Apps by category">
         <!-- catalog:start -->
@@ -195,8 +196,8 @@
   appsmore is a personal list, not a store. Made by <a href="https://x.com/protosphinx" rel="me noopener">@protosphinx</a> on NEO. App names and icons belong to their developers; links go to Apple's App Store.
 </footer>
 
-<script src="apps.js?v=19"></script>
-<script src="common.js?v=19"></script>
+<script src="apps.js?v=20"></script>
+<script src="common.js?v=20"></script>
 <script src="https://cdnjs.cloudflare.com/ajax/libs/qrcode-generator/1.4.4/qrcode.min.js" crossorigin="anonymous"></script>
 <script>
 (async function () {
@@ -215,6 +216,17 @@
   await AM.loadIcons();
 
   $('#catalog-note').innerHTML = `${AM.ordered.length} apps, ${CATEGORIES.length} categories, every one picked by <a href="https://x.com/protosphinx" rel="me noopener">@protosphinx</a>.`;
+  // The Duo line: days to launch until Oct 23 2026, then how many apps have
+  // been tried on the inner screen (the ["duo"] tag in apps.js).
+  (function duoNote() {
+    const el = $('#duo-note');
+    const tested = AM.ordered.filter((a) => a.tags.includes('duo')).length;
+    const days = Math.ceil((Date.UTC(2026, 9, 23) - Date.now()) / 864e5);
+    if (tested) el.textContent = `Tried on an iPhone Duo so far: ${tested} of ${AM.ordered.length}. The ones that use the inner screen properly carry a Duo mark.`;
+    else if (days > 1) el.textContent = `The iPhone Duo ships in ${days} days. From that day, every app here gets tried on the inner screen, and the ones that use it properly get marked.`;
+    else if (days >= 0) el.textContent = 'The iPhone Duo ships today. Every app here is about to be tried on the inner screen.';
+    else el.textContent = 'Every app here is being tried on an iPhone Duo; marks arrive as they earn them.';
+  })();
 
   // Starter packs: one tap picks a whole set (defined in apps.js).
   // ?pack=<slug> in the URL applies one on load (the setup page links here).

diff --git a/setup.html b/setup.html
@@ -13,7 +13,7 @@
 <meta property="og:image" content="https://appsmore.com/og.png">
 <meta name="twitter:card" content="summary_large_image">
 <meta name="theme-color" content="#0b0b0f">
-<link rel="stylesheet" href="style.css?v=19">
+<link rel="stylesheet" href="style.css?v=20">
 <link rel="icon" href="/favicon.ico" sizes="48x48">
 <link rel="icon" href="/favicon.svg" type="image/svg+xml">
 <link rel="icon" href="/favicon-32.png" type="image/png" sizes="32x32">
@@ -58,7 +58,7 @@
   <h2>6. Everything else, from your list</h2>
   <p>Now the browser, the streaming apps, the rides, the money. <a href="./">Pick them on the list</a>; it sorts your picks into exactly this order and gives you a Get button for each. Or start from a pack:</p>
   <p class="packs-inline">
-    <a class="pack" href="./?pack=fresh-iphone">Fresh iPhone</a>
+    <a class="pack" href="./?pack=duo-day-one">Duo, day one</a>
     <a class="pack" href="./?pack=for-my-parents">For my parents</a>
     <a class="pack" href="./?pack=privacy-first">Privacy first</a>
     <a class="pack" href="./?pack=work-phone">Work phone</a>

diff --git a/list.html b/list.html
@@ -5,7 +5,7 @@
 <meta name="viewport" content="width=device-width, initial-scale=1, viewport-fit=cover">
 <title>Your list - appsmore</title>
 <meta name="robots" content="noindex">
-<link rel="stylesheet" href="style.css?v=19">
+<link rel="stylesheet" href="style.css?v=20">
 <link rel="icon" href="/favicon.ico" sizes="48x48">
 <link rel="icon" href="/favicon.svg" type="image/svg+xml">
 <link rel="icon" href="/favicon-32.png" type="image/png" sizes="32x32">
@@ -38,8 +38,8 @@
 
 <footer>Links open Apple's App Store. Nothing is installed by this page itself; iPhones don't allow that, and that's fine. A list from <a href="./">appsmore</a>, made by <a href="https://x.com/protosphinx" rel="me noopener">@protosphinx</a> on NEO.</footer>
 
-<script src="apps.js?v=19"></script>
-<script src="common.js?v=19"></script>
+<script src="apps.js?v=20"></script>
+<script src="common.js?v=20"></script>
 <script>
 (async function () {
   const $ = (s) => document.querySelector(s);

diff --git a/apps.js b/apps.js
@@ -124,7 +124,7 @@ const REMOVED = [
 
 // Starter packs: one tap picks a whole set. ["Name", [ids...]].
 const PACKS = [
-  ["Fresh iPhone", [1511601750, 422689480, 585027354, 962194608, 310633997, 874139669, 389801252, 544007664, 324684580, 6448311069, 368677368, 351727428]],
+  ["Duo, day one", [1511601750, 422689480, 585027354, 962194608, 310633997, 874139669, 389801252, 544007664, 324684580, 6448311069, 368677368, 351727428]],
   ["For my parents", [1511601750, 310633997, 422689480, 585027354, 544007664, 363590051, 302584613, 368677368, 962194608]],
   ["Privacy first", [1137397744, 874139669, 989804926, 663592361, 6444370199]],
   ["Work phone", [983156458, 951937596, 618783545, 546505307, 586447913, 586683407, 1232780281, 572688855, 288429040]],

diff --git a/about.html b/about.html
@@ -6,7 +6,7 @@
 <title>About appsmore</title>
 <meta name="description" content="Why appsmore exists: one person's short list of iPhone apps, laid out for the iPhone Duo, with no charts, no ads and no tracking.">
 <link rel="canonical" href="https://appsmore.com/about.html">
-<link rel="stylesheet" href="style.css?v=19">
+<link rel="stylesheet" href="style.css?v=20">
 <link rel="icon" href="/favicon.ico" sizes="48x48">
 <link rel="icon" href="/favicon.svg" type="image/svg+xml">
 <link rel="icon" href="/favicon-32.png" type="image/png" sizes="32x32">

diff --git a/style.css b/style.css
@@ -42,7 +42,8 @@ img { display: block; }
 /* headline, one line, then icons */
 .title { font-size: 34px; line-height: 1.08; font-weight: 800; letter-spacing: -0.03em; margin: 22px 0 10px; max-width: 14ch; }
 .lede { margin: 0 0 8px; color: var(--muted); font-size: 16px; max-width: 560px; }
-.meta { margin: 0 0 22px; color: var(--muted); font-size: 13px; }
+.meta { margin: 0 0 8px; color: var(--muted); font-size: 13px; }
+.meta.duo { margin-bottom: 22px; color: #d6d6dd; max-width: 560px; }
 
 /* the icon grid */
 .cat { margin: 0 0 26px; }

diff --git a/common.js b/common.js
@@ -28,7 +28,7 @@
   async function loadIcons() {
     if (iconMeta) return iconMeta;
     try {
-      const r = await fetch('icons.json?v=19', { cache: 'force-cache' });
+      const r = await fetch('icons.json?v=20', { cache: 'force-cache' });
       iconMeta = await r.json();
     } catch (e) {
       iconMeta = { base: '', suffix: '', icons: {}, sellers: {} };

diff --git a/STATUS.md b/STATUS.md
@@ -35,6 +35,12 @@ so search engines can find it.
 
 ## Just shipped
 
+- Duo-first positioning (2026-09-15): h1 "The iPhone Duo apps. Hand-picked.",
+  lede "The short list for the first folding iPhone", a live Duo line under
+  it (days to the Oct 23 launch, then "tried on a Duo: N of 67" once ["duo"]
+  tags exist), first pack renamed "Duo, day one". Title, meta, OG and
+  og.png follow. Targets the still-uncontested "iphone duo apps" query.
+
 - Short links: `appsmore.com/tigereatsapple` style phrases via a Cloudflare
   Worker + KV; "Short link" button in Your list; QR switches to the short
   URL. Same list always gets the same phrase; one-year TTL refreshed on use.
